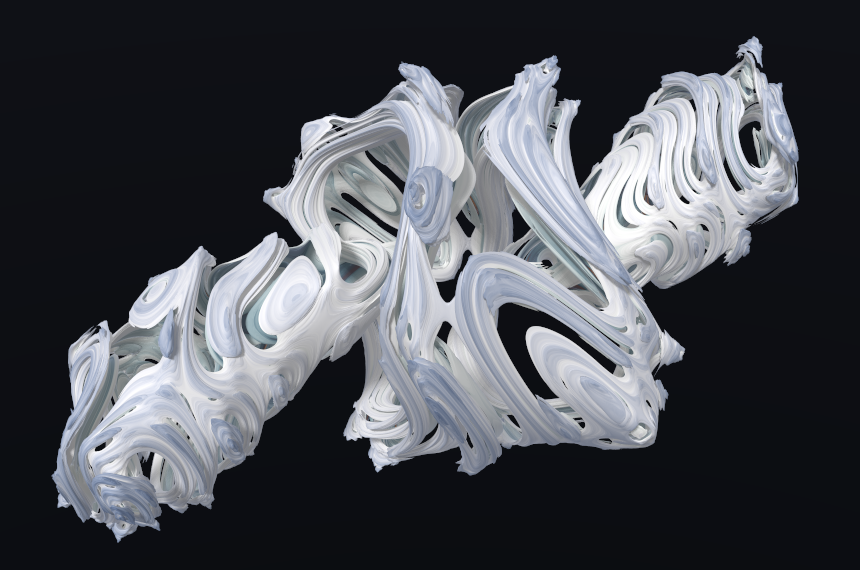
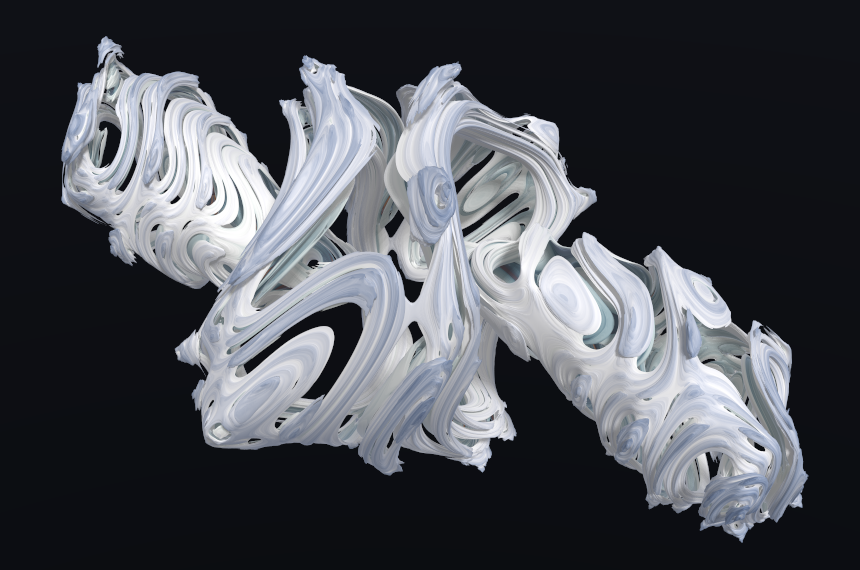
brot_viewer v3: fix the mirrored camera; README hero re-rendered
Every brot_viewer render was mirrored left-right: camera() took screen right
as up0 × forward, so right × up = +forward and screen right showed world −x
when looking along +z. insights caught it against an independent page (mask
IoU 0.80 as rendered, 0.955 flipped) after Doug saw it by eye. Screen right
is now forward × up0. Drag and shift-drag change sign so the body still
follows the hand. Share links keep their keys but now show the true hand.

New page check, 'picture hand': the b_brot Mandelbrot's real plane is the
classical Mandelbrot set, whose area centroid (−0.287) lies on the +x side
of the view centre (−0.5), so from +z its mass must sit left of centre. It
FAILED on the old camera (35.5 px right) and passes now (35.5 px left);
fault 'mirror' restores the old camera and must fail. The earlier checks
(spin, Q symmetry, shadow) are mirror-blind, which is why none fired.

v3 rebuilt in place from source (blocks unchanged; app.js, render.js and
manifest differ). README screenshot re-rendered with the fixed camera.
README notes that de_ray v1's manifest carries the older licence flag.

diff --git a/packs/brot_viewer/v3/app.js b/packs/brot_viewer/v3/app.js
@@ -143,12 +143,12 @@ function bindOrbit() {
   canvas.onpointerup = canvas.onpointercancel = () => { drag = null; };
   canvas.onpointermove = e => {
     if (!drag) return;
-    if (e.shiftKey) {   // body spin: φ ≡ camera az + φ (light aside), so −dx turns the body with the hand, like the orbit
-      const s = state.spin - (e.clientX - drag[0]) * 0.008;
+    if (e.shiftKey) {   // body spin: φ ≡ camera az + φ (light aside), so +dx turns the body with the hand, like the orbit
+      const s = state.spin + (e.clientX - drag[0]) * 0.008;
       state.spin = s - 2 * Math.PI * Math.round(s / (2 * Math.PI));   // keep in the slider's [−π, π]
       $('spin').value = state.spin; $('spinOut').textContent = deg(state.spin);
     } else {
-      state.az -= (e.clientX - drag[0]) * 0.008;
+      state.az += (e.clientX - drag[0]) * 0.008;   // + since the 10-07 camera fix: the body follows the hand
       state.el = clamp(state.el + (e.clientY - drag[1]) * 0.006, -1.4, 1.4);
     }
     drag = [e.clientX, e.clientY];
@@ -303,6 +303,16 @@ function check() {
   const turned = renderer.pixels('cube_l', { ...sv, shadow: 1, az: sv.az + 0.9, lightAz: sv.lightAz - 0.9 }, 0);
   const spinDiff = diff(spun, turned);
   line(spinDiff < 0.001, `spin: φ 0.9 vs camera +0.9 and light −0.9, ${(100 * spinDiff).toFixed(3)}% of channels differ`);
+  // Picture hand: in a right-handed world, looking along +z, screen right is world −x. Every check above is
+  // mirror-blind, and v3 shipped mirrored until 10-07 (insights' catch, Doug's eye). The b_brot Mandelbrot's real
+  // plane is the classical Mandelbrot set, whose area centroid (real ≈ −0.287) lies on the +x side of the view
+  // centre (−0.5). So from az = 0, el = 0 the silhouette's mass must sit LEFT of the centre column.
+  const hv = { ...frameState({ ...base, set: 'b_brot', julia: false, az: 0, el: 0, axis: true, beta: 0, theta: 0 }), c: SETS.b_brot.c };
+  const hm = renderer.mask('square', hv), W = canvas.width;
+  let sx = 0, cnt = 0;
+  for (let i = 0; i < hm.length; i++) if (hm[i]) { sx += i % W; cnt++; }
+  const mass = cnt ? sx / cnt - (W - 1) / 2 : 0;
+  line(cnt > 0 && mass < -0.01 * W, `picture hand: b_brot Mandelbrot from +z, mass ${Math.abs(mass).toFixed(1)} px ${mass < 0 ? 'left' : 'right'} of centre (must be left: world +x on screen left)`);
   render();
   return { ok, lines };
 }

diff --git a/viewers/brot_viewer/app.js b/viewers/brot_viewer/app.js
@@ -143,12 +143,12 @@ function bindOrbit() {
   canvas.onpointerup = canvas.onpointercancel = () => { drag = null; };
   canvas.onpointermove = e => {
     if (!drag) return;
-    if (e.shiftKey) {   // body spin: φ ≡ camera az + φ (light aside), so −dx turns the body with the hand, like the orbit
-      const s = state.spin - (e.clientX - drag[0]) * 0.008;
+    if (e.shiftKey) {   // body spin: φ ≡ camera az + φ (light aside), so +dx turns the body with the hand, like the orbit
+      const s = state.spin + (e.clientX - drag[0]) * 0.008;
       state.spin = s - 2 * Math.PI * Math.round(s / (2 * Math.PI));   // keep in the slider's [−π, π]
       $('spin').value = state.spin; $('spinOut').textContent = deg(state.spin);
     } else {
-      state.az -= (e.clientX - drag[0]) * 0.008;
+      state.az += (e.clientX - drag[0]) * 0.008;   // + since the 10-07 camera fix: the body follows the hand
       state.el = clamp(state.el + (e.clientY - drag[1]) * 0.006, -1.4, 1.4);
     }
     drag = [e.clientX, e.clientY];
@@ -303,6 +303,16 @@ function check() {
   const turned = renderer.pixels('cube_l', { ...sv, shadow: 1, az: sv.az + 0.9, lightAz: sv.lightAz - 0.9 }, 0);
   const spinDiff = diff(spun, turned);
   line(spinDiff < 0.001, `spin: φ 0.9 vs camera +0.9 and light −0.9, ${(100 * spinDiff).toFixed(3)}% of channels differ`);
+  // Picture hand: in a right-handed world, looking along +z, screen right is world −x. Every check above is
+  // mirror-blind, and v3 shipped mirrored until 10-07 (insights' catch, Doug's eye). The b_brot Mandelbrot's real
+  // plane is the classical Mandelbrot set, whose area centroid (real ≈ −0.287) lies on the +x side of the view
+  // centre (−0.5). So from az = 0, el = 0 the silhouette's mass must sit LEFT of the centre column.
+  const hv = { ...frameState({ ...base, set: 'b_brot', julia: false, az: 0, el: 0, axis: true, beta: 0, theta: 0 }), c: SETS.b_brot.c };
+  const hm = renderer.mask('square', hv), W = canvas.width;
+  let sx = 0, cnt = 0;
+  for (let i = 0; i < hm.length; i++) if (hm[i]) { sx += i % W; cnt++; }
+  const mass = cnt ? sx / cnt - (W - 1) / 2 : 0;
+  line(cnt > 0 && mass < -0.01 * W, `picture hand: b_brot Mandelbrot from +z, mass ${Math.abs(mass).toFixed(1)} px ${mass < 0 ? 'left' : 'right'} of centre (must be left: world +x on screen left)`);
   render();
   return { ok, lines };
 }

diff --git a/packs/brot_viewer/v3/render.js b/packs/brot_viewer/v3/render.js
@@ -26,7 +26,7 @@ const HEAD = '#version 300 es\nprecision highp float;\nprecision highp int;\n';
 
 // Faults, used only by the build gate to prove check() can fail: 'bracket' wires z(zz) to the (zz)z bricks,
 // 'quaternion' wires the q maps to the Bristorian square and cube, 'spin' leaves the light out of the body frame,
-// 'shadow' never sends the shadow switch.
+// 'shadow' never sends the shadow switch, 'mirror' draws the picture mirrored (the pre-10-07 camera).
 const FAULTS = { bracket: { cube_r: 'cube_l' }, quaternion: { qsquare: 'square', qcube: 'cube_l' } };
 
 export async function createRenderer(canvas, { fault = null } = {}) {
@@ -132,8 +132,10 @@ export async function createRenderer(canvas, { fault = null } = {}) {
   function camera({ az, el, dist, target }) {
     const f = [-Math.cos(el) * Math.sin(az), -Math.sin(el), Math.cos(el) * Math.cos(az)];
     const pos = target.map((x, k) => x - dist * f[k]);
-    const r = normalize([f[2], 0, -f[0]]);                  // up0 × forward, up0 = (0, 1, 0)
-    const u = [f[1] * r[2] - f[2] * r[1], f[2] * r[0] - f[0] * r[2], f[0] * r[1] - f[1] * r[0]];
+    // Screen right = forward × up0, so right × up = −forward: a right-handed picture. Until 10-07 this was up0 × forward,
+    // which drew every set mirrored left-right (insights' catch, Doug's eye); fault 'mirror' restores that for the gate.
+    const r = fault === 'mirror' ? normalize([f[2], 0, -f[0]]) : normalize([-f[2], 0, f[0]]);
+    const u = fault === 'mirror' ? cross(f, r) : cross(r, f);   // +y either way
     return { pos, mat: [...r, ...u, ...f] };
   }
 
@@ -260,6 +262,10 @@ export async function createRenderer(canvas, { fault = null } = {}) {
   }
 
   return { draw, accumulate, pixels, mask, bounded, canAccumulate: !!accFloat, maps: Object.keys(MAPS) };
+}
+
+function cross(a, b) {
+  return [a[1] * b[2] - a[2] * b[1], a[2] * b[0] - a[0] * b[2], a[0] * b[1] - a[1] * b[0]];
 }
 
 function normalize(v) {

diff --git a/viewers/brot_viewer/render.js b/viewers/brot_viewer/render.js
@@ -26,7 +26,7 @@ const HEAD = '#version 300 es\nprecision highp float;\nprecision highp int;\n';
 
 // Faults, used only by the build gate to prove check() can fail: 'bracket' wires z(zz) to the (zz)z bricks,
 // 'quaternion' wires the q maps to the Bristorian square and cube, 'spin' leaves the light out of the body frame,
-// 'shadow' never sends the shadow switch.
+// 'shadow' never sends the shadow switch, 'mirror' draws the picture mirrored (the pre-10-07 camera).
 const FAULTS = { bracket: { cube_r: 'cube_l' }, quaternion: { qsquare: 'square', qcube: 'cube_l' } };
 
 export async function createRenderer(canvas, { fault = null } = {}) {
@@ -132,8 +132,10 @@ export async function createRenderer(canvas, { fault = null } = {}) {
   function camera({ az, el, dist, target }) {
     const f = [-Math.cos(el) * Math.sin(az), -Math.sin(el), Math.cos(el) * Math.cos(az)];
     const pos = target.map((x, k) => x - dist * f[k]);
-    const r = normalize([f[2], 0, -f[0]]);                  // up0 × forward, up0 = (0, 1, 0)
-    const u = [f[1] * r[2] - f[2] * r[1], f[2] * r[0] - f[0] * r[2], f[0] * r[1] - f[1] * r[0]];
+    // Screen right = forward × up0, so right × up = −forward: a right-handed picture. Until 10-07 this was up0 × forward,
+    // which drew every set mirrored left-right (insights' catch, Doug's eye); fault 'mirror' restores that for the gate.
+    const r = fault === 'mirror' ? normalize([f[2], 0, -f[0]]) : normalize([-f[2], 0, f[0]]);
+    const u = fault === 'mirror' ? cross(f, r) : cross(r, f);   // +y either way
     return { pos, mat: [...r, ...u, ...f] };
   }
 
@@ -260,6 +262,10 @@ export async function createRenderer(canvas, { fault = null } = {}) {
   }
 
   return { draw, accumulate, pixels, mask, bounded, canAccumulate: !!accFloat, maps: Object.keys(MAPS) };
+}
+
+function cross(a, b) {
+  return [a[1] * b[2] - a[2] * b[1], a[2] * b[0] - a[0] * b[2], a[0] * b[1] - a[1] * b[0]];
 }
 
 function normalize(v) {

diff --git a/README.md b/README.md
@@ -144,3 +144,7 @@ Attribution is requested for code and data, and required for text:
 “Bristorbrot / Doug Bristor, [bristorbrot.org](https://bristorbrot.org)”.
 Keep the MIT copyright and licence notices when redistributing code. For text, give appropriate
 credit, link to CC BY 4.0 and indicate any changes.
+
+`packs/de_ray/v1/manifest.json` (built 2026-10-02) carries an older single `attribution_required: false` flag.
+That was right for its code and data but not for its CC BY text atoms; the requirements stated here apply.
+Manifests built since 2026-10-07 state them per kind of file.
